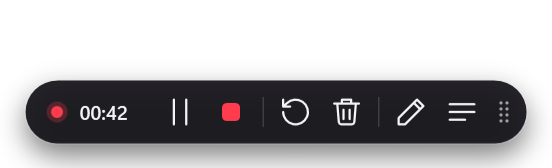
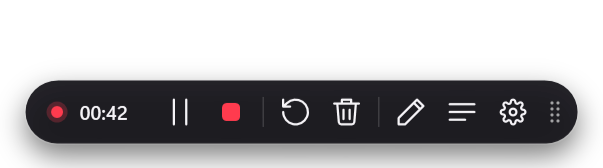
Schermate: barra attuale con il menu Opzioni

diff --git a/README.md b/README.md
@@ -34,9 +34,9 @@ I video restano sul tuo PC, in MP4. DiGiRec fa parte di **DiGi Apps**, app gratu
 |---|---|
 | <img src="schermate/impostazioni.png" alt="Impostazioni" width="420"> | <img src="schermate/teleprompter.png" alt="Teleprompter" width="420"> |
 
-<p align="center">
-  <img src="schermate/barra-registrazione.png" alt="Barra durante la registrazione" width="420">
-</p>
+| | |
+|---|---|
+| <img src="schermate/barra-registrazione.png" alt="Barra durante la registrazione" width="420"> | <img src="schermate/menu-opzioni.png" alt="Menu Opzioni della barra: bordo, clic, specchio, sfocato" width="420"> |
 
 ## Installazione
 
